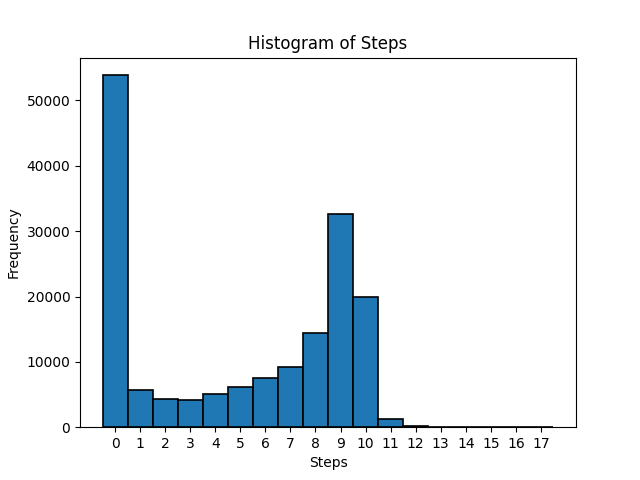
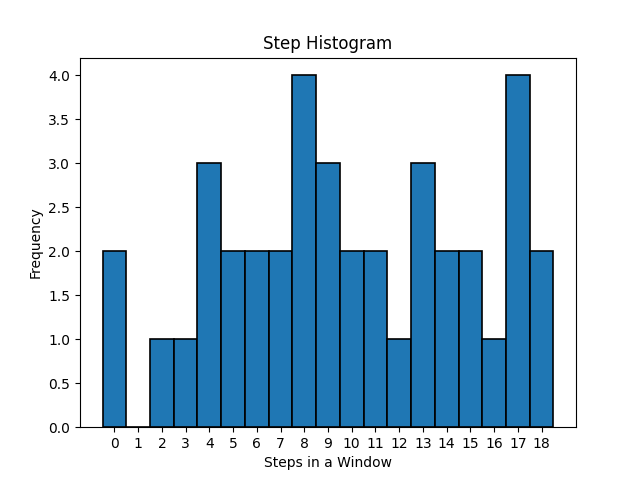
fixed balance_data bugs

diff --git a/cut/balance_data.py b/cut/balance_data.py
@@ -28,10 +28,10 @@ fpt.close()
 # calculate some values
 data = np.array(data)
 samples = len(data)
-values = len(np.unique(data[:,0]))
+diff_steps = len(np.unique(data[:,0]))
 
 print("Samples in original data:", samples)
-print("Number of different steps:", values)
+print("Number of different steps:", diff_steps)
 
 # plot histogram of steps
 print("Plotting histogram...")
@@ -41,52 +41,42 @@ left_of_first_bin = histdata.min() - float(d)/2
 right_of_last_bin = histdata.max() + float(d)/2
 figure = plt.hist(histdata, np.arange(left_of_first_bin, right_of_last_bin + d, d), edgecolor='black', linewidth=1.2)
 plt.xticks(np.arange(min(histdata), max(histdata)+1, 1.0))
-plt.title("Histogram of Steps")
-plt.xlabel("Steps")
+plt.title("Step Histogram")
+plt.xlabel("Steps in a Window")
 plt.ylabel("Frequency")
-plt.savefig("histogram.png")
+plt.savefig("histogram_before.png")
 
 # find percentage of labels and minimum
-print("calculating percentages...")
-count = [0] * values
-total = 0
-percent = [0] * values
+print("Calculating percentages...")
+maximum_steps = int(max(histdata) + 1)
+count = [0] * maximum_steps
+percent = [0] * maximum_steps
 smallest = 100
+histdata = histdata.tolist()
 
-for i in range(0, samples):
-    count[int(data[i][0])] += 1
-    total += 1
-
-for i in range(0, values):
-    # print("Count", i, "is", count[i])
-    percent[i] = count[i] / total * 100
-    # print("Percent", i, "is %.2f" %(percent[i]))
+for i in range(0, maximum_steps):
+    percent[i] = histdata.count(i) / samples * 100
     if percent[i] > 0.1 and percent[i] < smallest:
         smallest = percent[i]
-
-samples_per_count = int(samples * smallest / values)
-print("Maximum samples for each step count:", samples_per_count)
-
-# print percentages of each step
-for i in range(0, values):
-    print("Count", i, "is", count[i])
-    percent[i] = count[i] / total * 100
+    print("Count", i, "is", histdata.count(i))
     print("Percent", i, "is %.2f" %(percent[i]))
-    if percent[i] < smallest:
-        smallest = percent[i]
+
+samples_per_count = int(samples * smallest / diff_steps)
+print("Maximum samples for each step count:", samples_per_count)
 
 # randomly choose data to make uniform
 print("Choosing data uniformly...")
 shuffled_data = []
-shuffled_count = [0] * values
+shuffled_count = [0] * maximum_steps
+
 for i in range(0, samples):
-    steps = int(data[i][0])
+    steps = int(histdata[i])
     if shuffled_count[steps] <= samples_per_count:
         if random.random() < (smallest / percent[steps]):
             shuffled_data.append(data[i])
             shuffled_count[steps] += 1
 print("Samples in redistributed data:", len(shuffled_data))
-print("Number of different steps:", values)
+print("Number of different steps:", diff_steps)
 
 # write shuffled data to output file
 print("Writing data to file...")
@@ -100,24 +90,35 @@ fpt = open(sys.argv[2], 'r')
 data = [[float(x) for x in line.split()] for line in fpt]
 fpt.close()
 
+# calculate some values
 data = np.array(data)
 samples = len(data)
-values = len(np.unique(data[:,0]))
+diff_steps = len(np.unique(data[:,0]))
 
-count = [0] * values
-total = 0
-percent = [0] * values
+# plot histogram of steps
+print("Plotting histogram...")
+histdata = data[:,0]
+d = np.diff(np.unique(histdata)).min()
+left_of_first_bin = histdata.min() - float(d)/2
+right_of_last_bin = histdata.max() + float(d)/2
+figure = plt.hist(histdata, np.arange(left_of_first_bin, right_of_last_bin + d, d), edgecolor='black', linewidth=1.2)
+plt.xticks(np.arange(min(histdata), max(histdata)+1, 1.0))
+plt.title("Step Histogram")
+plt.xlabel("Steps in a Window")
+plt.ylabel("Frequency")
+plt.savefig("histogram_after.png")
+
+# find percentage of labels and minimum
+print("Calculating percentages...")
+maximum_steps = int(max(histdata) + 1)
+count = [0] * maximum_steps
+percent = [0] * maximum_steps
 smallest = 100
+histdata = histdata.tolist()
 
-for i in range(0, samples):
-    count[int(data[i][0])] += 1
-    total += 1
-
-for i in range(0, values):
-    print("Count", i, "is", count[i])
-    percent[i] = count[i] / total * 100
-    print("Percent", i, "is %.2f" %(percent[i]))
-    if percent[i] < smallest:
+for i in range(0, maximum_steps):
+    percent[i] = histdata.count(i) / samples * 100
+    if percent[i] > 0.1 and percent[i] < smallest:
         smallest = percent[i]
 
 print("Smallest percentage is", smallest)
